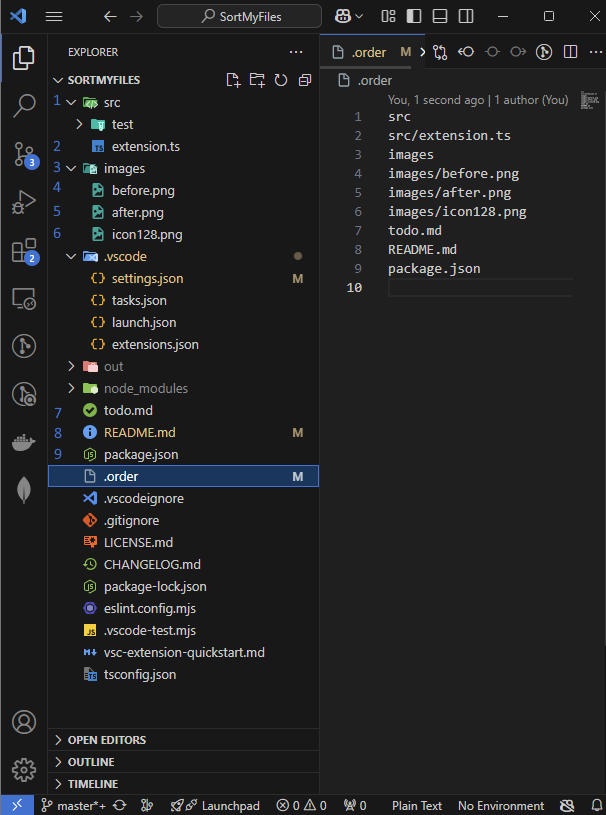
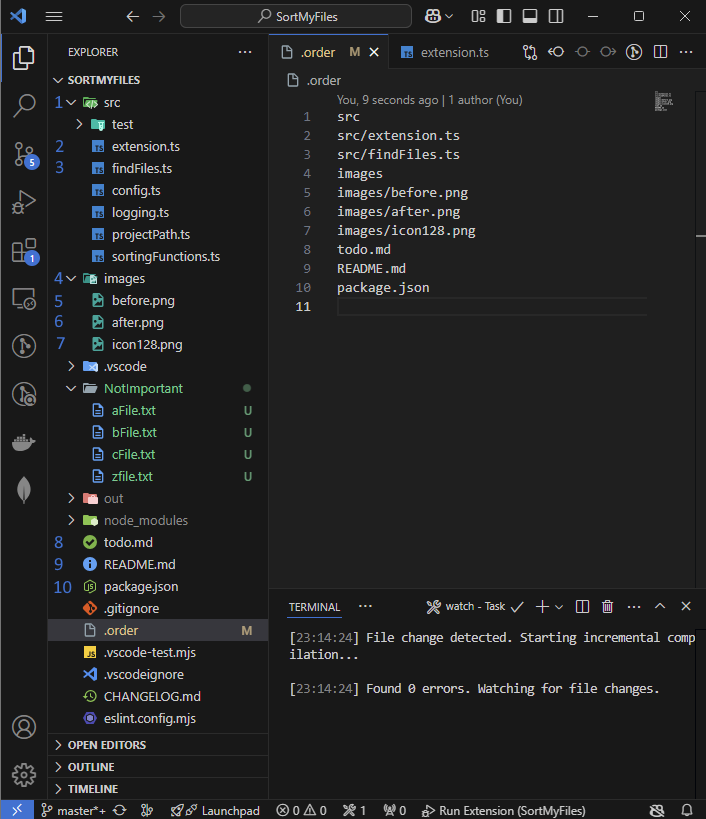
update screenshots

diff --git a/todo.md b/todo.md
@@ -1,8 +1,4 @@
-### Sort rest of the files alphabetically - DONE - Needs fix - I fixed it 
-- Sort the files not listed in the .order file alphabetically.
-- Get all files and FOLDERS from workspace. Substact the files from order file.
-- Call changeModifyDate function in alpabetical order
-- gitignore only works for files not folder. I need to exclude the ignore folders from fileandfolders list
+
 ### Add custom sort function selector (Maybe)
 - Users can contribute to the code and add their custom sort functions to sortingFunctions.ts
 - Add a selector to VS code to change the active sorting function.
@@ -26,8 +22,6 @@
 - I dont think many people use multiple workspaces in the same editor anyways
 ### Test on Linux
 - I am not sure if line endings are all working on linux
-### Update screenshots
-- After sort alphabetical order I need to update the screenshots
 ### Clean the code
 - I dont have time right now. I need finish my other project before the deadline. 
 ---

diff --git a/README.md b/README.md
@@ -37,7 +37,7 @@ BEFORE             |  AFTER
 
 Initial release of extension
 
-### 0.2.0
+### 0.1.3
 
 Sort rest of the files alphabetically
 
